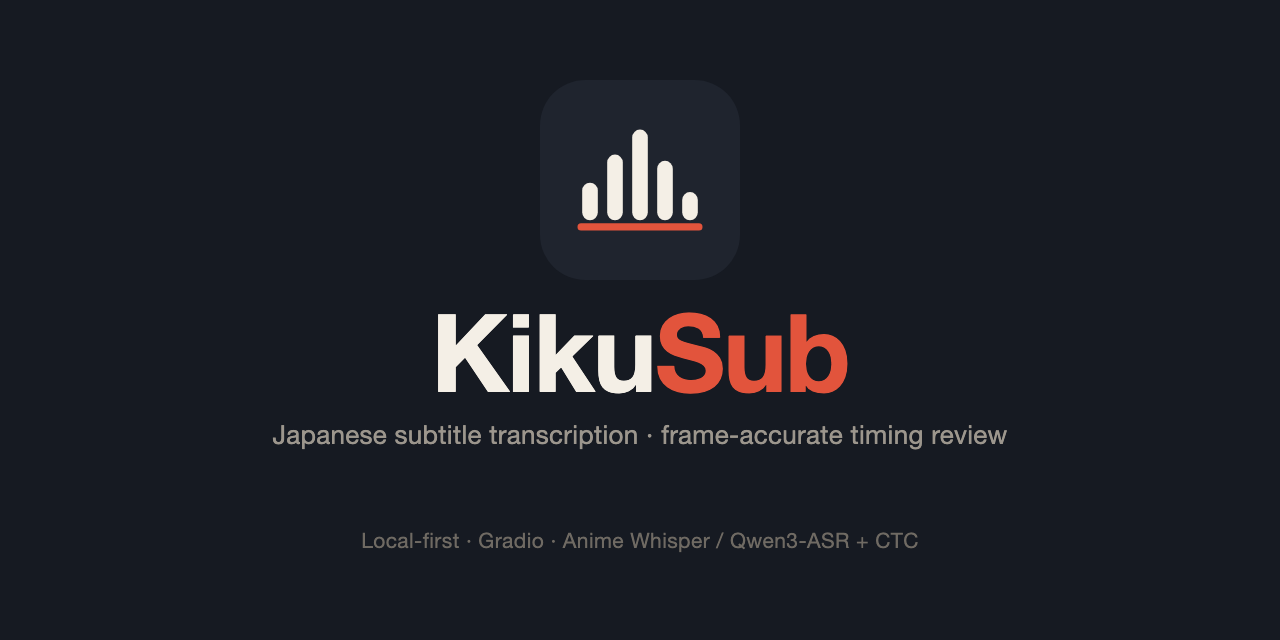
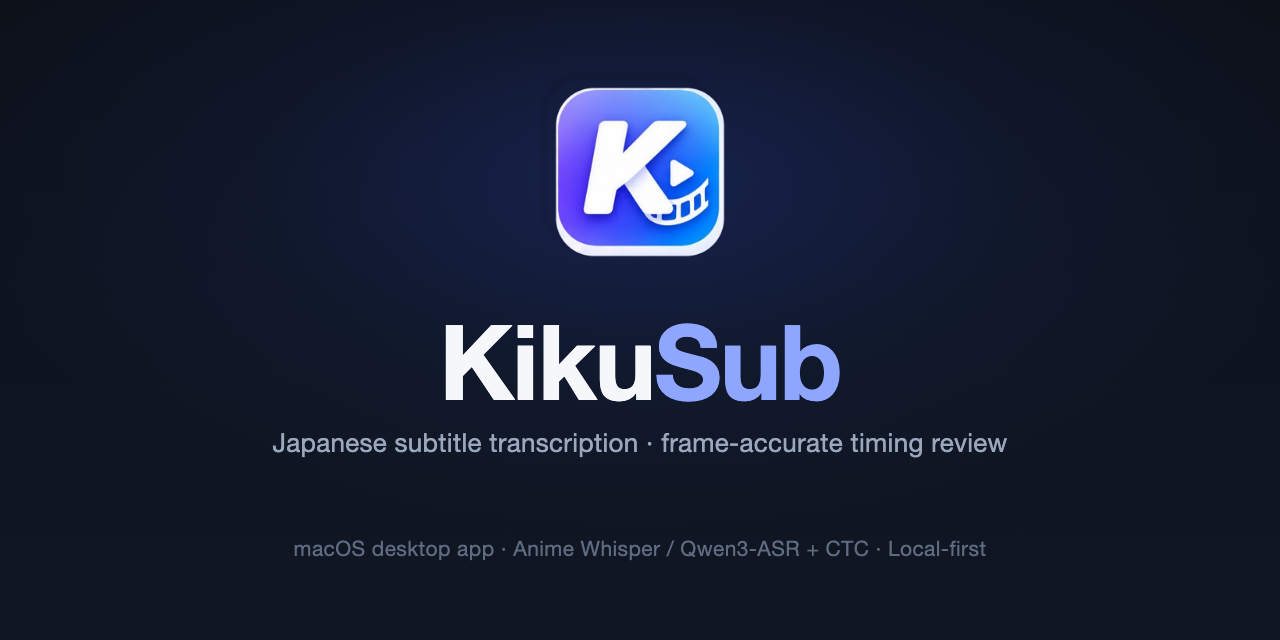
chore(brand): 对外展示统一到新应用图标，dmg 增加卷图标
- README / README_EN 头部改用 docs/app-icon.png（新图标，蓝紫渐变 K）
- 旧波形 logo（logo.svg / logo.png / logo-1024.png）移入 docs/archive，
  不再参与打包；build_app.sh 缺 docs/app-icon.png 时直接失败，
  并顺带刷新开发模式的 desktop/build/icon.png
- 重做 1280×640 社交预览卡（新图标 + 去掉已归档的 Gradio 文案），
  PNG 需在 GitHub Settings → Social preview 手工上传
- build_dmg.sh 走 UDRW → SetFile -a C → UDZO，下载的 .dmg 显示应用图标
- docs/README.md、AGENTS.md §3.5.1 同步「图标唯一源 + 展示面链路」

Changed region(s): [[0.3125, 0.125, 0.6875, 0.625], [0.2188, 0.6562, 0.7812, 0.7188], [0.2188, 0.8125, 0.7812, 0.875]]

diff --git a/AGENTS.md b/AGENTS.md
@@ -217,16 +217,21 @@ sidecar 也可以单独启动：`source .venv/bin/activate && python -m server -
 - 渲染端 API 失败会自动带 `X-Request-Id` 记日志；新增「用户关键动作」时同时 `logEvent(...)`，否则用户报障时无法还原操作序列。
 - 局部转写的 `write_audit` 语义：`replace_range`（核对台单句/选区修正）**不写**整片质检队列；转写页的整片/区间任务都要写，否则报告与质检面板数字不一致。
 
-### 3.5.1 应用图标（2026-11 修复）
+### 3.5.1 应用图标（2026-11 修订）
 
-- `desktop/build/icon.icns` 必须由 `docs/logo.svg` 重新渲染后打包，不能用
-  `docs/logo-1024.png` 直接转 icns——那张是白底 flattened PNG，四角不透明，
-  在深色 Finder 下会露出白角（用户报过「访达里图标异常、Dock 正常」）。
-  `tools/pack/make_icon.swift` 负责按 macOS 全部尺寸渲染透明圆角图标，
-  `build_app.sh` 的 0/7 步会先执行它。
+- **唯一图标源是 `docs/app-icon.png`**（1024×1024、RGBA、圆角与投影已烘进图里）。
+  `desktop/build/icon.icns` 必须由它重新渲染后打包：`tools/pack/make_icon.swift`
+  按 macOS 全部尺寸生成 iconset，`build_app.sh` 的 0/7 步先执行它，缺图直接失败——
+  绝不允许「沿用上一版 icon.icns」静默装出图标过时的 .app。
+- 旧波形 logo（深色圆角 + 米白声波 + 朱红底线）只作历史资产留在
+  `docs/archive/logo-waveform.*`，**不再参与打包，也不要再被 README 引用**。
+  README / README_EN 头部与仓库社交预览都必须用新图标（蓝紫渐变 K + 播放键 + 胶片）。
 - 装配后删除 Electron 自带的 `Contents/Resources/electron.icns`，避免图标缓存
   误用旧图；`build_app.sh` 末尾会 `touch` + `lsregister -f`。Finder 缓存仍顽固时
   运行 `bash tools/pack/refresh_finder_icon.sh --restart`。
+- 对外展示面（README 头部、GitHub「Social preview」卡）与安装包图标是两条链路：
+  前者是仓库文件 + Settings 手工上传，后者才走打包脚本。改图标时三处都要看，
+  否则会出现「Dock 是新的、仓库页还是旧的」。
 
 ## 3.6 桌面启动、设置与退出清理（2026-11 新增）
 

diff --git a/docs/README.md b/docs/README.md
@@ -35,7 +35,10 @@
 
 - `images/`：README 用的当前界面截图（由 `desktop` 的自截图机制生成，见
   [desktop/README.md](../desktop/README.md)）。
-- `logo.svg` / `logo.png` / `logo-1024.png`：应用图标源文件（`tools/pack/make_icon.swift`
-  从 `logo.svg` 渲染 `.icns`）。
-- `social-preview.*`：仓库社交预览图。
-- `archive/`：旧 Gradio 界面截图，仅作历史对照。
+- `app-icon.png`：**唯一应用图标源**（1024×1024、RGBA，圆角与投影已烘进图里）。
+  README / README_EN 头部与 `tools/pack/make_icon.swift`（生成 `icon.icns`）都读它；
+  换图标只换这一张，然后重跑 `tools/pack/build_app.sh`。
+- `social-preview.*`：仓库社交预览卡（1280×640）。`social-preview.svg` 是源文件，
+  `social-preview.png` 是渲染结果——它需要手工在 GitHub 仓库 Settings → Social preview 上传，
+  改仓库文件不会自动更新。
+- `archive/`：旧 Gradio 界面截图与旧波形 logo（`logo-waveform.*`），仅作历史对照。

diff --git a/README.md b/README.md
@@ -1,5 +1,5 @@
 <p align="center">
-  <img src="docs/logo.png" width="112" alt="KikuSub logo">
+  <img src="docs/app-icon.png" width="112" alt="KikuSub logo">
 </p>
 
 <h1 align="center">KikuSub</h1>

diff --git a/README_EN.md b/README_EN.md
@@ -1,5 +1,5 @@
 <p align="center">
-  <img src="docs/logo.png" width="112" alt="KikuSub logo">
+  <img src="docs/app-icon.png" width="112" alt="KikuSub logo">
 </p>
 
 <h1 align="center">KikuSub</h1>
